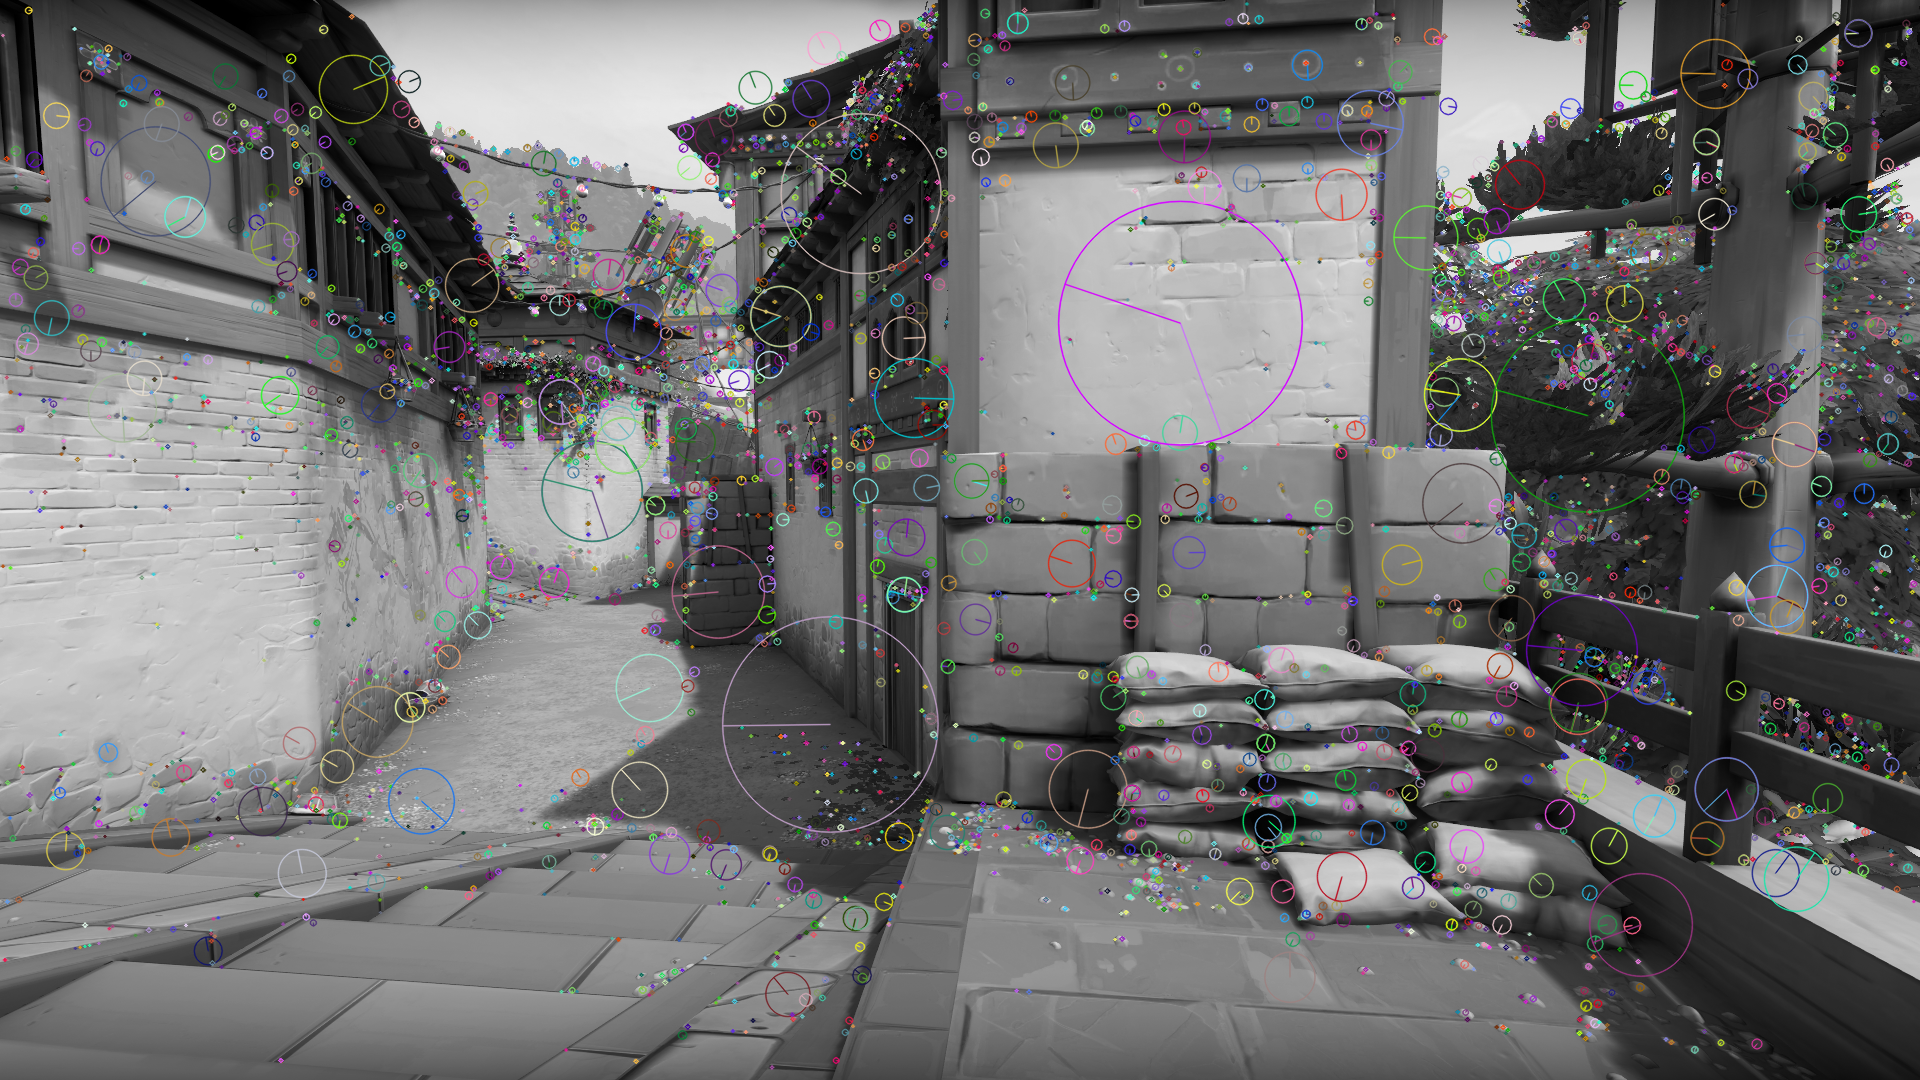
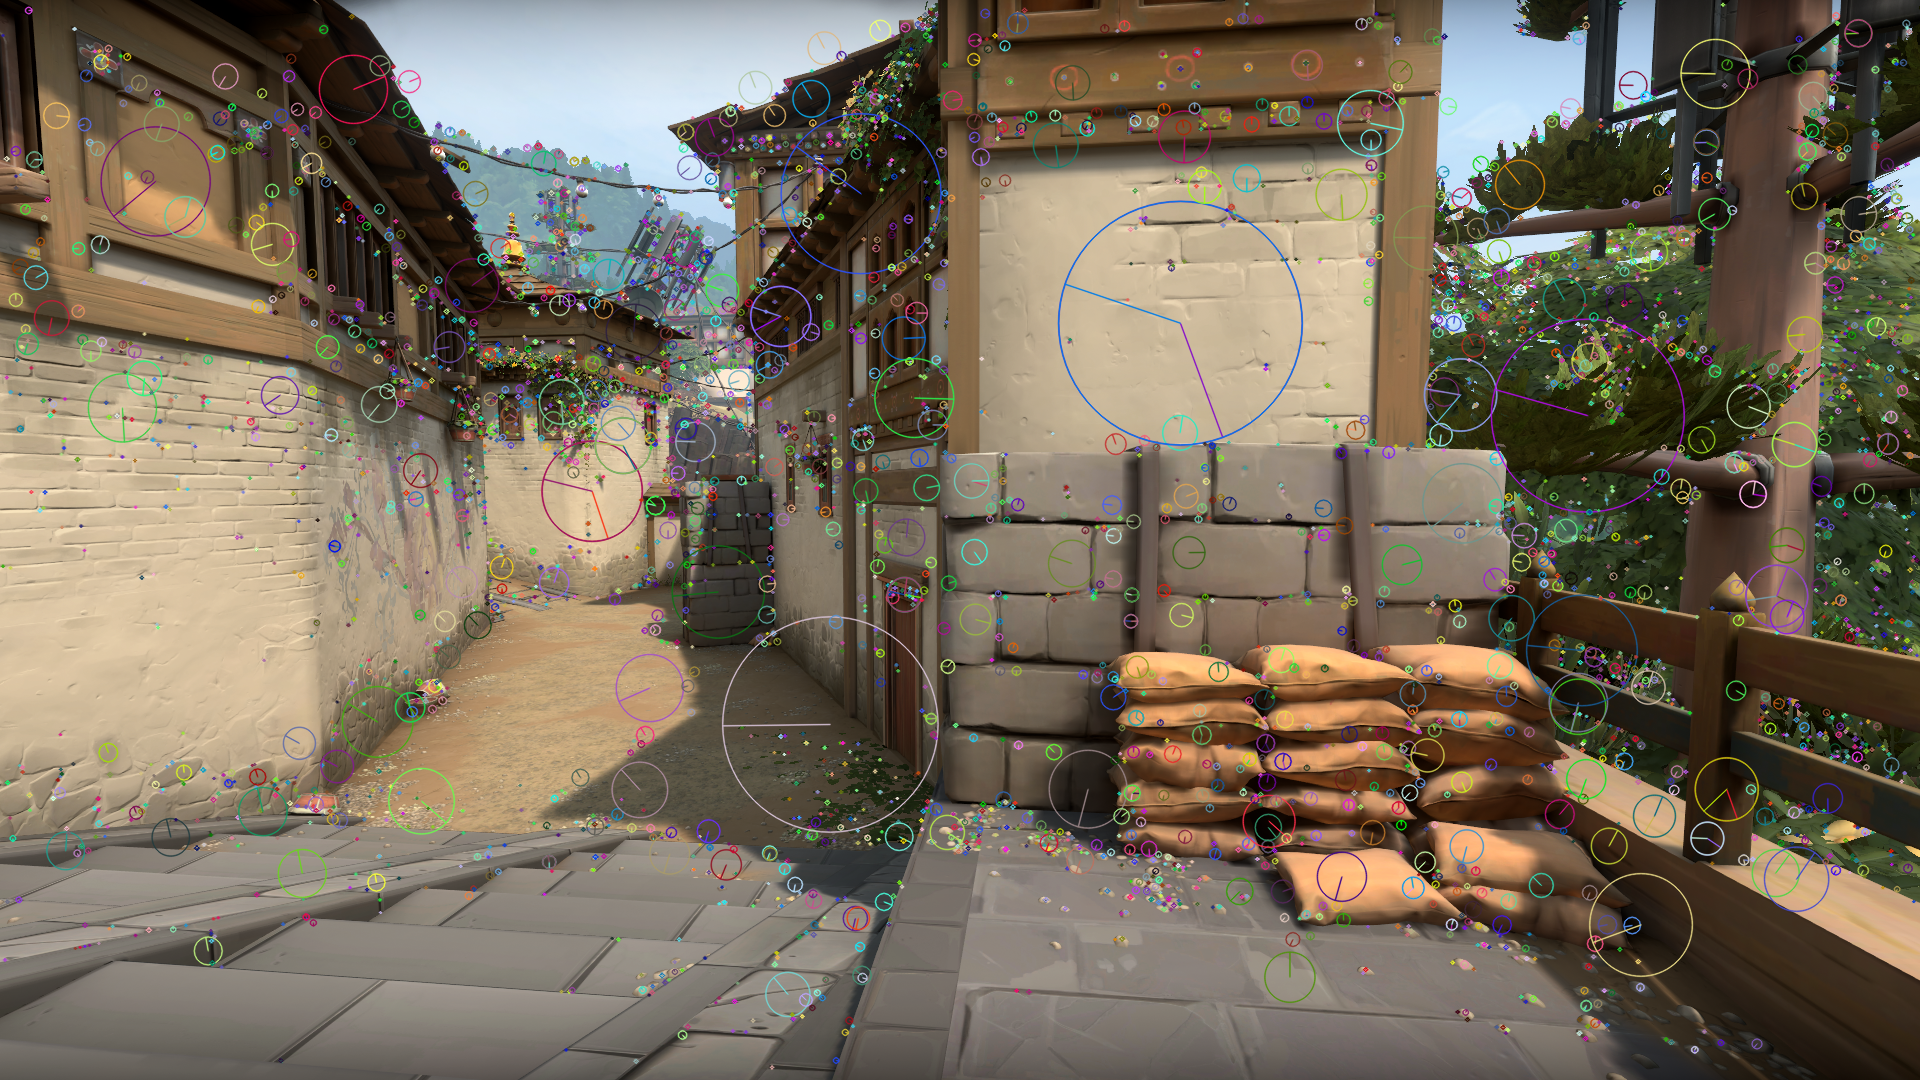
R and t computed

diff --git a/sw/runMe.py b/sw/runMe.py
@@ -1,6 +1,7 @@
 import numpy as np
 import os
 import cv2 as cv
+from matplotlib import pyplot as plt
 
 CX = 960
 CY = 540
@@ -36,25 +37,106 @@ initialCameraMatrix[0,2] = CX
 initialCameraMatrix[1,2] = CY    
 
 # Since calibration points are not planar initial intrinsic Matrix needed
-# ret, mtx, dist, rvecs, tvecs = cv.calibrateCamera([objectPoints], [imagePoints], imageSize , None, None)
+# ret, cameraMatrix, dist, rvecs, tvecs = cv.calibrateCamera([objectPoints], [imagePoints], imageSize , None, None)
 
-ret, mtx, dist, rvecs, tvecs = cv.calibrateCamera([objectPoints], [imagePoints], imageSize, initialCameraMatrix, None, flags=flags)
+ret, cameraMatrix, dist, rvecs, tvecs = cv.calibrateCamera([objectPoints], [imagePoints], imageSize, initialCameraMatrix, None, flags=flags)
 
-
-sift = cv.SIFT_create()
-kpList = []
-
+imgList                 = []
+imgWithKeypointsList    = []
+kpList                  = []
+desList                 = []
+sift                    = cv.SIFT_create()
 
 for i in range(N_IMAGES) :
     imNo = i+1
+    imgWithKeypoints =[]
     
     img = cv.imread(inputDir + '\\' + 'img' + str(imNo) + '.png')
-    gray= cv.cvtColor(img,cv.COLOR_BGR2GRAY)
+    imgList.append(img)
+
+    plt.imshow(imgList[i]),plt.show()
     
-    kp = sift.detect(gray,None)    
-    # img=cv.drawKeypoints(gray,kp,img)
-    img=cv.drawKeypoints(gray,kp,img,flags=cv.DRAW_MATCHES_FLAGS_DRAW_RICH_KEYPOINTS)
-    cv.imwrite(outputDir + '\\' + 'sift_keypoints' + str(imNo) + '.png', img)
+    gray= cv.cvtColor(img,cv.COLOR_BGR2GRAY)    
+    kp, des = sift.detectAndCompute(gray,None)
+    
+    
+    imgWithKeypoints = cv.drawKeypoints(img,\
+                                        kp, \
+                                        outImage=np.array([]),\
+                                        flags=cv.DRAW_MATCHES_FLAGS_DRAW_RICH_KEYPOINTS)
+    cv.imwrite(outputDir + '\\' + 'sift_keypoints' + str(imNo) + '.png', imgWithKeypoints)
     
     kpList.append(kp)
+    desList.append(des)
+    imgWithKeypointsList.append(imgWithKeypoints)
+
+    plt.imshow(imgWithKeypointsList[i]),plt.show()    
+
+
+
+
+
+bf = cv.BFMatcher()
+
+for i in range(N_IMAGES-1) :
+    print(i+1)
     
+    matches = bf.knnMatch(desList[0], desList[i+1], k=2)
+    
+    print(len(desList[0]))        
+    print(len(desList[i+1])) 
+    
+    good = []
+    for m,n in matches:
+        if m.distance < 0.75*n.distance:            
+            good.append(m)
+            
+    src_pts = np.float32([ kpList[0][m.queryIdx].pt for m in good ])
+    dst_pts = np.float32([ kpList[i+1][m.trainIdx].pt for m in good ])
+    
+    print(len(src_pts))        
+    print(len(dst_pts))    
+    
+    E, mask = cv.findEssentialMat(src_pts,\
+                                  dst_pts,\
+                                  cameraMatrix,\
+                                  method=cv.RANSAC,\
+                                  threshold=1,\
+                                  maxIters=1000    )
+    print(len(mask))
+    
+    A = np.hstack( (imgList[0], imgList[i+1]) )
+    
+    src_ptsD_draw =np.int16(src_pts)
+    dst_ptsD_draw =np.int16(dst_pts)
+    
+    matchCounter = 0
+    for j in range(len(mask)):        
+    # for j in range(1):  
+        if(mask[j,0]==1):
+            matchCounter = matchCounter +1
+            if(matchCounter%100==0):
+                color1 = (list(np.random.choice(range(256), size=3)))  
+                color =[int(color1[0]), int(color1[1]), int(color1[2])] 
+                # cv.line(A, (20,10), (100,10), (255,0,0), 1)
+                cv.line(A, (src_ptsD_draw[j,0], src_ptsD_draw[j,1]), (CX*2+dst_ptsD_draw[j,0], dst_ptsD_draw[j,1]), color, 1)
+
+    
+    plt.imshow(A),plt.show()
+    cv.imwrite(outputDir + '\\' + 'A' + str(i) + '.png', A)    
+        
+    # for j in range(len(mask)):
+        
+    # img2 = cv.drawMatches(imgList[0], src_pts, imgList[i+1], dst_pts, mask, imgList[0] )   
+    # cv.imwrite(outputDir + '\\' + 'asd' + img2 + '.png', img)
+        
+    R1, R2, t = cv.decomposeEssentialMat(E)
+        
+    dst1, jacobian1 = cv.Rodrigues(R1)
+    dst2, jacobian2 = cv.Rodrigues(R2)
+    
+    # M, mask = cv.findHomography(src_pts, dst_pts, cv2.RANSAC,5.0)
+    # matchesMask = mask.ravel().tolist()        
+            
+            
+            
